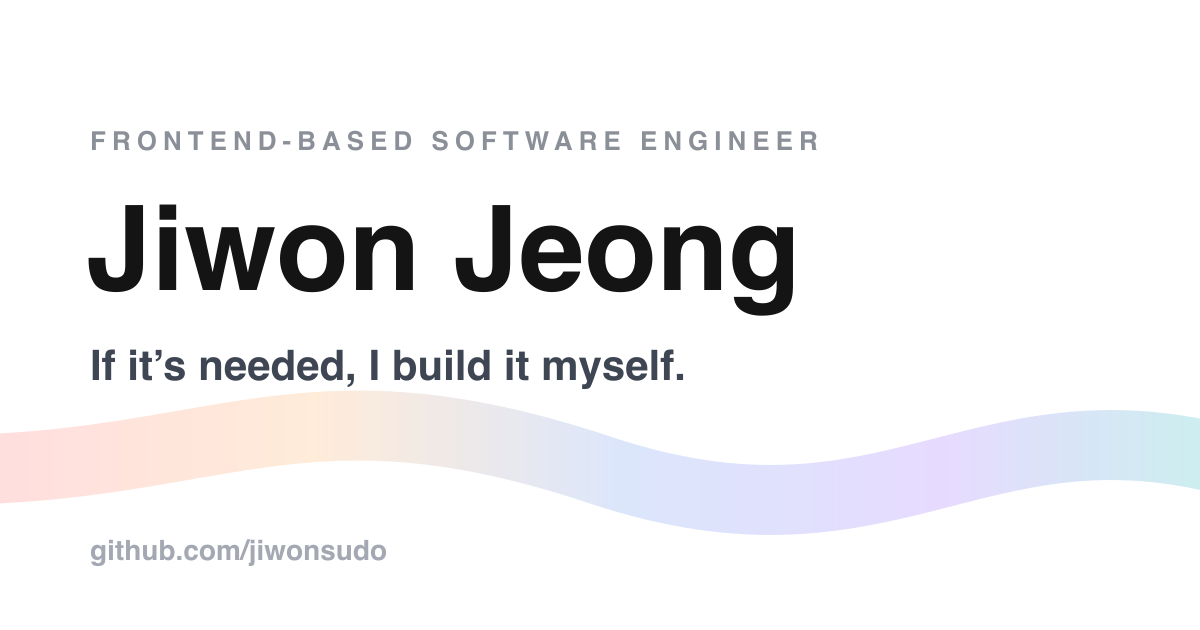
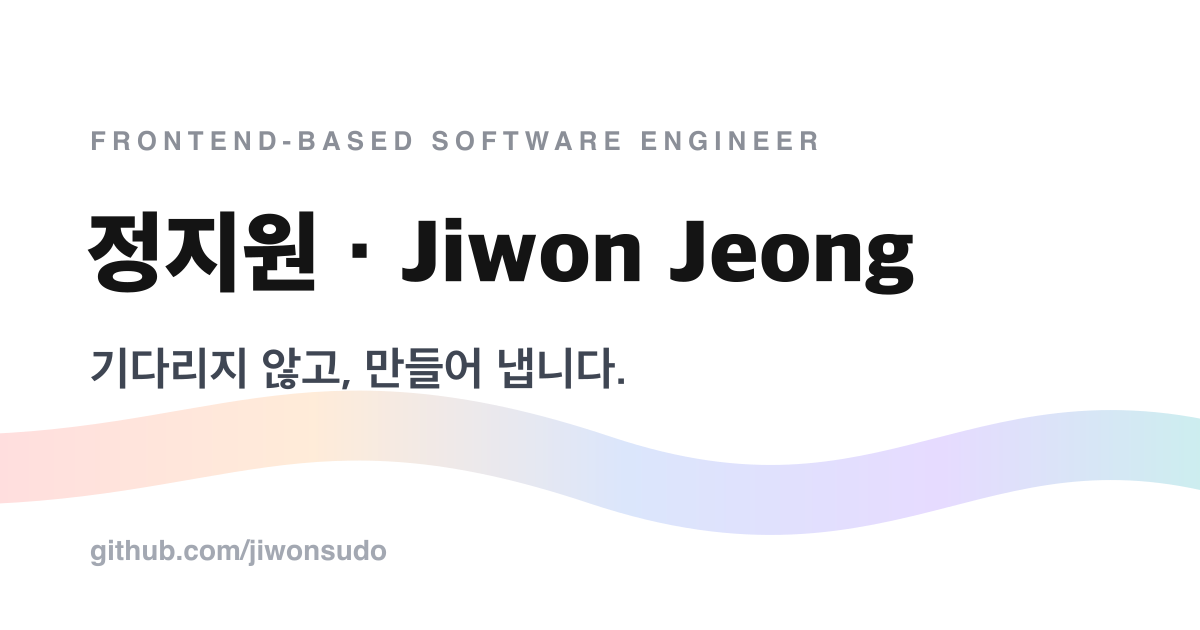
chore: OG 메타·이미지 한국어 캐치프레이즈로 갱신
- og-image: '정지원 · Jiwon Jeong' + '기다리지 않고, 만들어 냅니다' (한글 렌더)
- og/twitter title·description을 새 캐치프레이즈/부제 기준 한국어로 교체

Changed region(s): [[0.0617, 0.3016, 0.7708, 0.5127], [0.0617, 0.5429, 0.5858, 0.6333]]

diff --git a/index.html b/index.html
@@ -9,7 +9,7 @@
     <title>정지원 · Jiwon Jeong — Software Engineer Portfolio</title>
     <meta
       name="description"
-      content="화면부터 하드웨어까지 — 프론트엔드 기반 소프트웨어 엔지니어 정지원의 포트폴리오. 웹·앱·임베디드·시뮬레이션 프로젝트."
+      content="기다리지 않고 만들어 내는 소프트웨어 엔지니어 정지원. 웹 화면부터 드론 비행제어기, 로켓 엔진 시뮬레이터까지 — 필요하면 피벗도 마다하지 않고 결국 만들어 냅니다."
     />
     <meta name="author" content="Jiwon Jeong (정지원)" />
     <meta name="robots" content="index, follow" />
@@ -21,11 +21,11 @@
     <meta property="og:locale" content="ko_KR" />
     <meta
       property="og:title"
-      content="정지원 · Jiwon Jeong — Software Engineer Portfolio"
+      content="정지원 · 기다리지 않고, 만들어 냅니다"
     />
     <meta
       property="og:description"
-      content="화면부터 하드웨어까지, 사용자 경험을 끝까지 책임지는 소프트웨어 엔지니어. 웹·앱·임베디드·시뮬레이션 프로젝트."
+      content="웹 화면부터 드론 비행제어기, 로켓 엔진 시뮬레이터까지 — 프로덕트든 데이터든, 필요하면 피벗도 마다하지 않고 결국 만들어 냅니다."
     />
     <meta property="og:url" content="https://jiwonsudo.github.io/portfolio/" />
     <meta
@@ -38,11 +38,11 @@
     <meta name="twitter:card" content="summary_large_image" />
     <meta
       name="twitter:title"
-      content="정지원 · Jiwon Jeong — Software Engineer Portfolio"
+      content="정지원 · 기다리지 않고, 만들어 냅니다"
     />
     <meta
       name="twitter:description"
-      content="화면부터 하드웨어까지, 사용자 경험을 끝까지 책임지는 소프트웨어 엔지니어."
+      content="웹 화면부터 드론 비행제어기, 로켓 엔진 시뮬레이터까지 — 프로덕트든 데이터든, 필요하면 피벗도 마다하지 않고 결국 만들어 냅니다."
     />
     <meta
       name="twitter:image"
